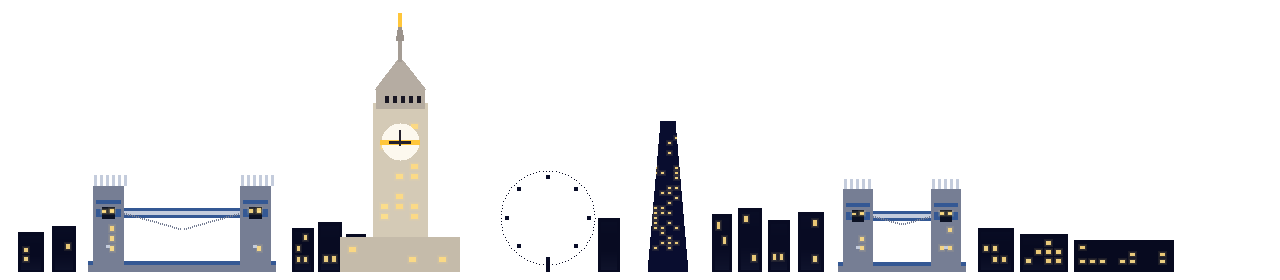
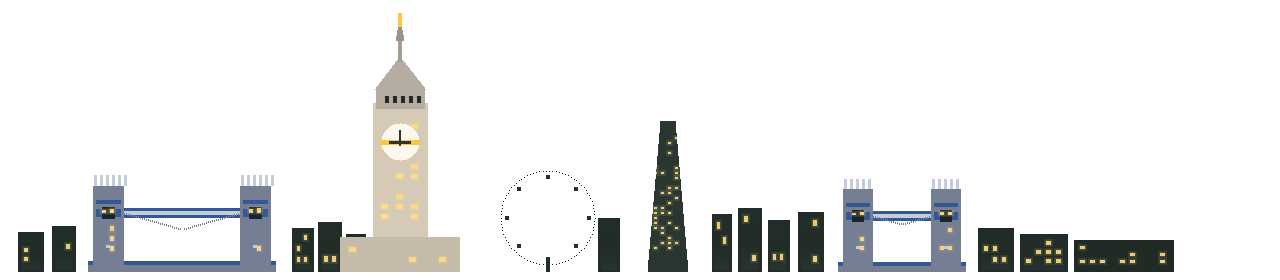
Deploy Stack Rush mobile PWA

diff --git a/index.html b/index.html
@@ -619,7 +619,7 @@
       <div class="section-divider"></div>
       <p class="theme-label">City skyline <span id="cityUnlockHint"></span></p>
       <div class="theme-grid" id="cityGrid"></div>
-      <p class="theme-label" id="buildVer" style="margin-top:10px;opacity:.35;font-size:.62rem;text-align:center;">Build b5c1b8e3</p>
+      <p class="theme-label" id="buildVer" style="margin-top:10px;opacity:.35;font-size:.62rem;text-align:center;">Build 6976c2d6</p>
       <button class="secondary" id="optionsBackBtn" style="width:100%;margin-top:10px;">Back</button>
     </div>
   </div>
@@ -710,7 +710,7 @@ const MUSIC_TRACKS = [
 
 const SFX_FILES = ['drop', 'land', 'perfect', 'great', 'good', 'slice', 'gameover'];
 const ASSETS_BASE = 'assets/';
-const ASSETS_VER = 'b5c1b8e3';
+const ASSETS_VER = '6976c2d6';
 const BOARD_KEY = 'stackrush_weekly_board';
 const PLAYER_NAME_KEY = 'stackrush_player_name';
 const BOARD_MAX = 15;
@@ -3023,8 +3023,15 @@ class GameEngine {
       const drawX = Math.min(0, Math.max(this.w - tileW, this.w * 0.5 - focus * img.width * scale));
 
       ctx.save();
+      const night = Math.max(0, 1 - this.altitudeMeters / 110);
       ctx.globalAlpha = vivid ? Math.min(1, cityAlpha * 1.08) : cityAlpha;
-      if (vivid) ctx.filter = 'saturate(1.25) brightness(1.08)';
+      if (vivid) {
+        ctx.filter = 'saturate(1.25) brightness(1.08)';
+      } else if (night > 0.12) {
+        const boost = 1.06 + night * 0.1;
+        const contrast = 1.04 + night * 0.06;
+        ctx.filter = `brightness(${boost.toFixed(3)}) contrast(${contrast.toFixed(3)}) saturate(1.04)`;
+      }
       ctx.drawImage(img, drawX, topY, tileW, tileH);
       ctx.restore();
       this._drawSkylineWaterReflection(ctx, img, drawX, topY, tileW, tileH, skylineFootY, cityAlpha);
@@ -4127,7 +4134,7 @@ if ('serviceWorker' in navigator) {
     location.reload();
   });
   window.addEventListener('load', () => {
-    navigator.serviceWorker.register('./sw.js?v=b5c1b8e3').then((reg) => {
+    navigator.serviceWorker.register('./sw.js?v=6976c2d6').then((reg) => {
       reg.update();
       if (reg.waiting) reg.waiting.postMessage({ type: 'SKIP_WAITING' });
       reg.addEventListener('updatefound', () => {

diff --git a/sw.js b/sw.js
@@ -1,5 +1,5 @@
 /* Stack Rush service worker — generated by build_mobile.py */
-const CACHE = 'stackrush-b5c1b8e3';
+const CACHE = 'stackrush-6976c2d6';
 const ASSETS = [
   "./manifest.webmanifest",
   "./icon.svg",
